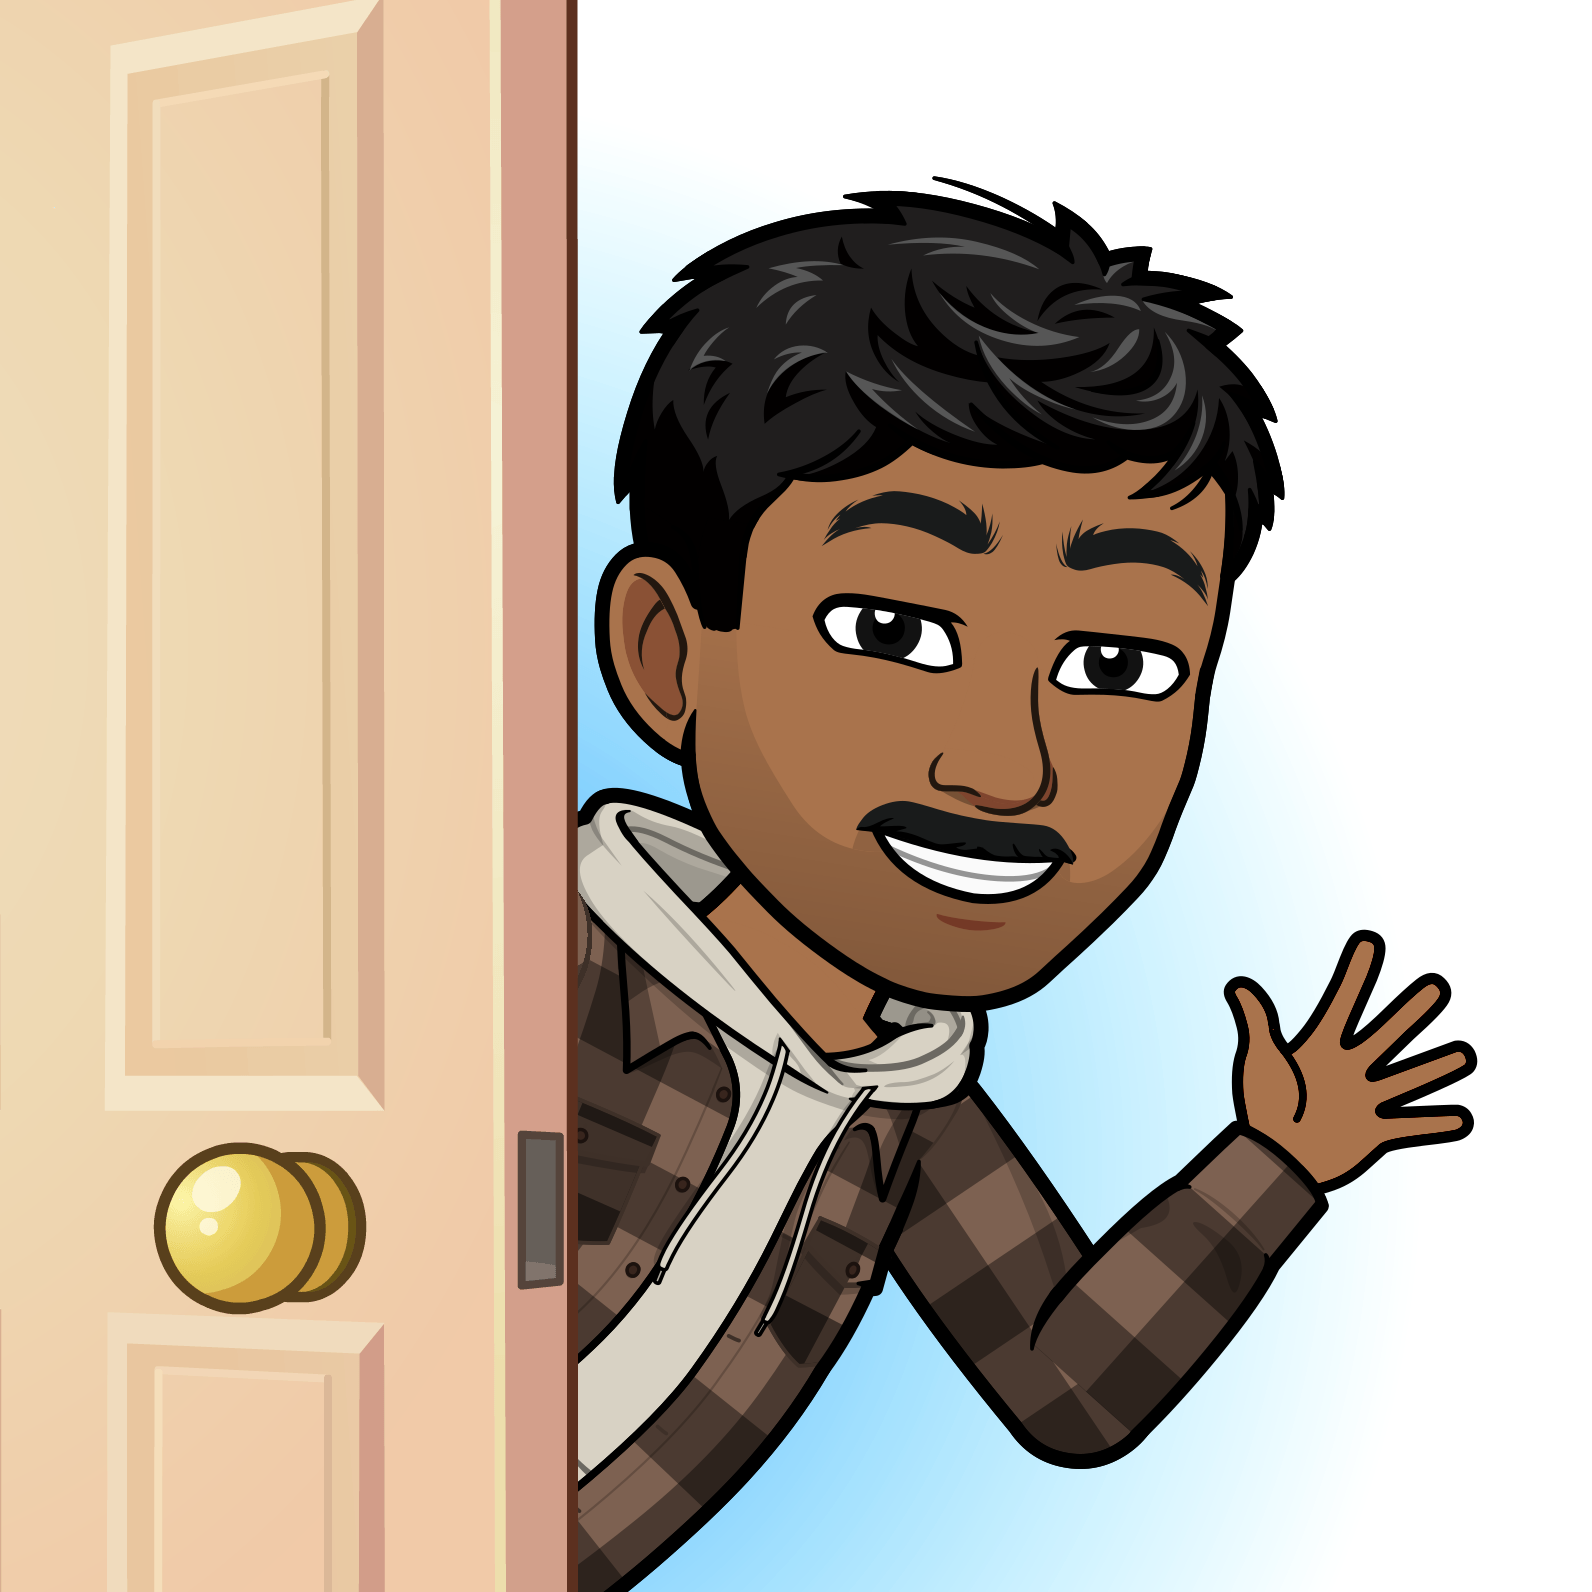
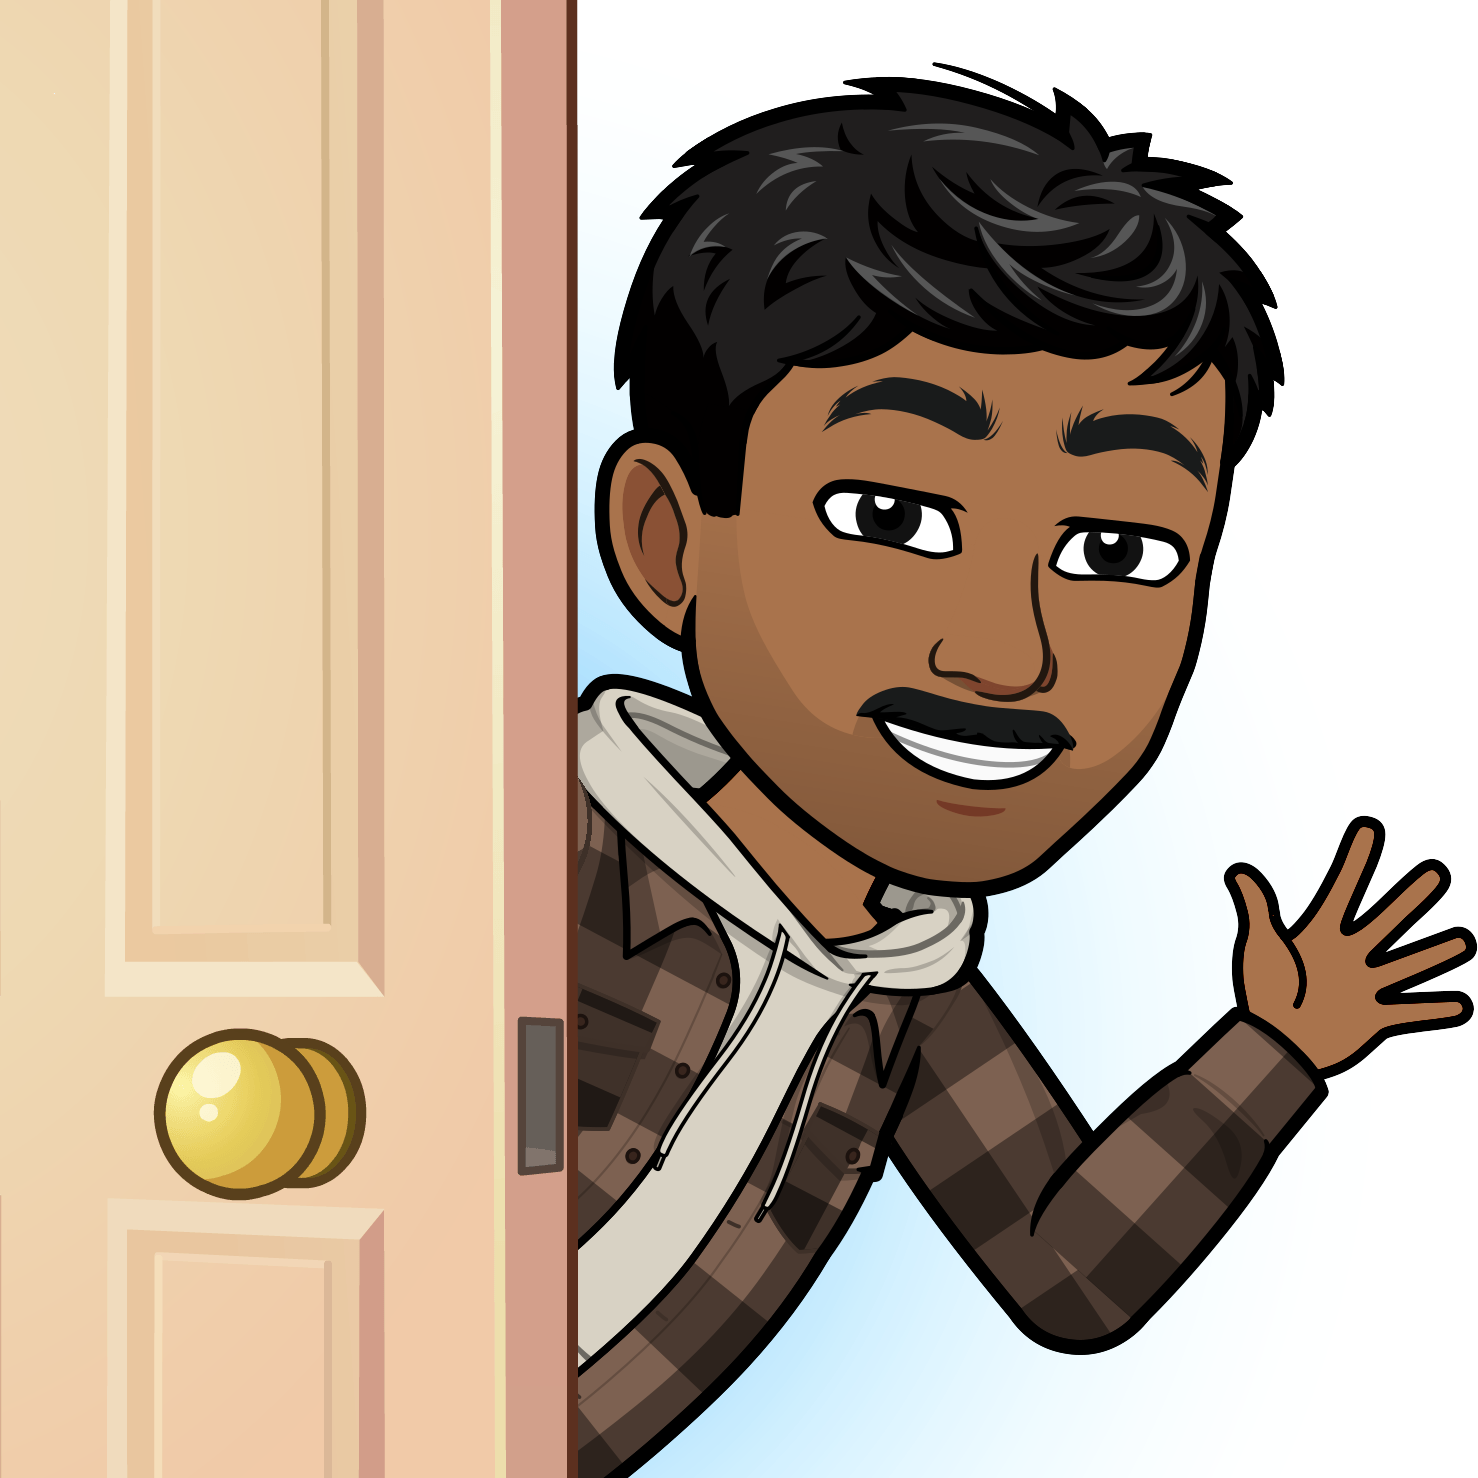
josue sarmiento vides => add animations with framer motion in the component presentations

diff --git a/src/components/presentation/Presentation.jsx b/src/components/presentation/Presentation.jsx
@@ -1,16 +1,49 @@
 import React from 'react'; 
 import styles from './Presentation.module.css'
+import { motion } from 'framer-motion';
+import {useAnimations} from '../../hooks/useAnimations';
 
 const Presentation = () => {
+  const { transitionRight, fade, transitionLeft, transitionBottom} = useAnimations() 
+
   return (
     <section className={styles.container}>
-      <article className={styles.containerImg}>
+      <motion.div 
+        className={styles.containerImg}
+        initial={fade.initial}
+        animate={fade.animate}
+        transition={{delay: 0.5, duration: 2 }} 
+      >
         <img className={styles.image} src="/Avatars/waving doorway.png" alt="" />
-      </article>
+        <div className={styles.mask}></div>
+        <div className={styles.mask}></div>
+      </motion.div>
       <article className={styles.containerText}>
-        <h2 className={styles.subtitle}>Hi, my name is</h2>
-        <h1 className={styles.title}>Josue Sarmiento</h1>
-        <h3 className={styles.text}>Developer <span className={styles.highlighted}>Web full Stack</span></h3>
+        <motion.h2 
+          className={styles.subtitle}
+          initial={transitionRight.initial}
+          animate={transitionRight.animate}
+          transition={{ delay: 1, duration: 1 }}
+        >
+          Hi, my name is
+        </motion.h2>
+        <motion.h1 
+          className={styles.title}
+          initial={transitionLeft.initial}
+          animate={ transitionLeft.animate }
+          transition={{ delay: 1.5, duration: 1 }}
+        >
+          Josue Sarmiento
+        </motion.h1>
+        <motion.h3 
+          className={styles.text}
+          initial={transitionBottom.initial}
+          animate={transitionBottom.animate}
+          transition={{ delay: 2, duration: 1 }}
+        >
+          Developer 
+          <span className={styles.highlighted}>Web full Stack</span>
+        </motion.h3>
       </article> 
     </section>	
   )

diff --git a/src/components/presentation/Presentation.module.css b/src/components/presentation/Presentation.module.css
@@ -7,14 +7,25 @@
 
 .containerImg {
     display: flex;
-    width: 420px;
-    height: 420px;
+    width: 550px;
+    position: relative;
 }
 
 .image {
-    aspect-ratio: 1/1;
     width: 100%;
     mask-image: linear-gradient(-90deg, black 80%, transparent);
+}
+
+.mask {
+    position: absolute;
+    width: 100%;
+    height: 100%;
+    background: linear-gradient(transparent 95%, black); 
+    z-index: 100;
+}
+
+.containerImg .mask:last-child {
+    background: linear-gradient(black, transparent 4%); 
 }
 
 .containerText {
